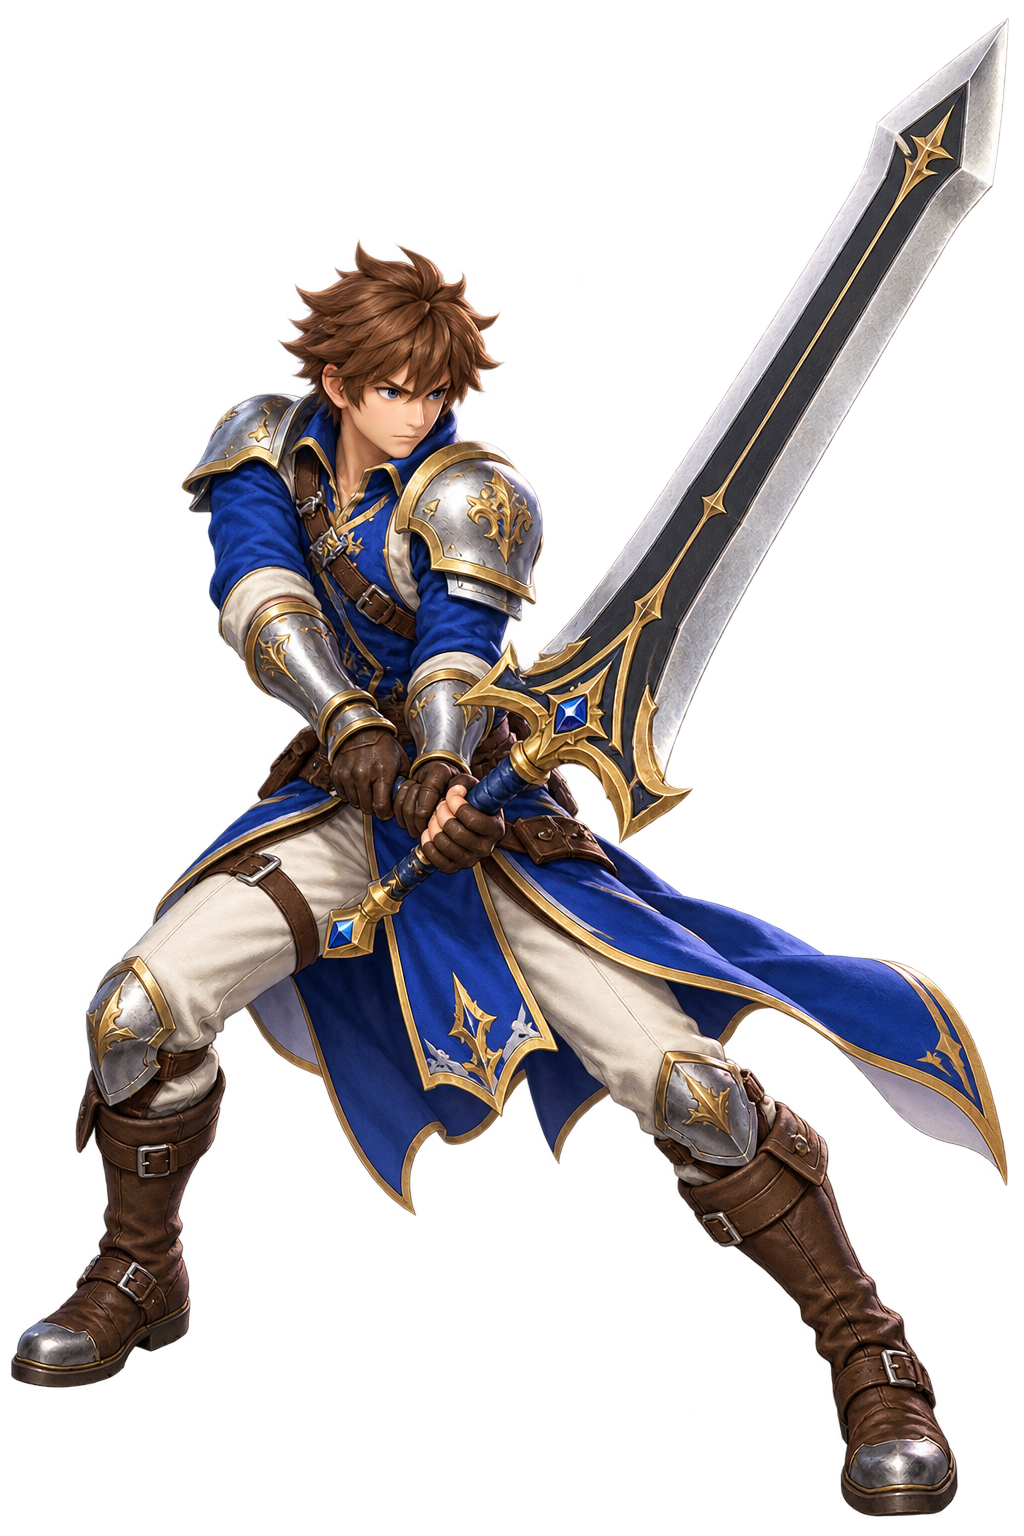
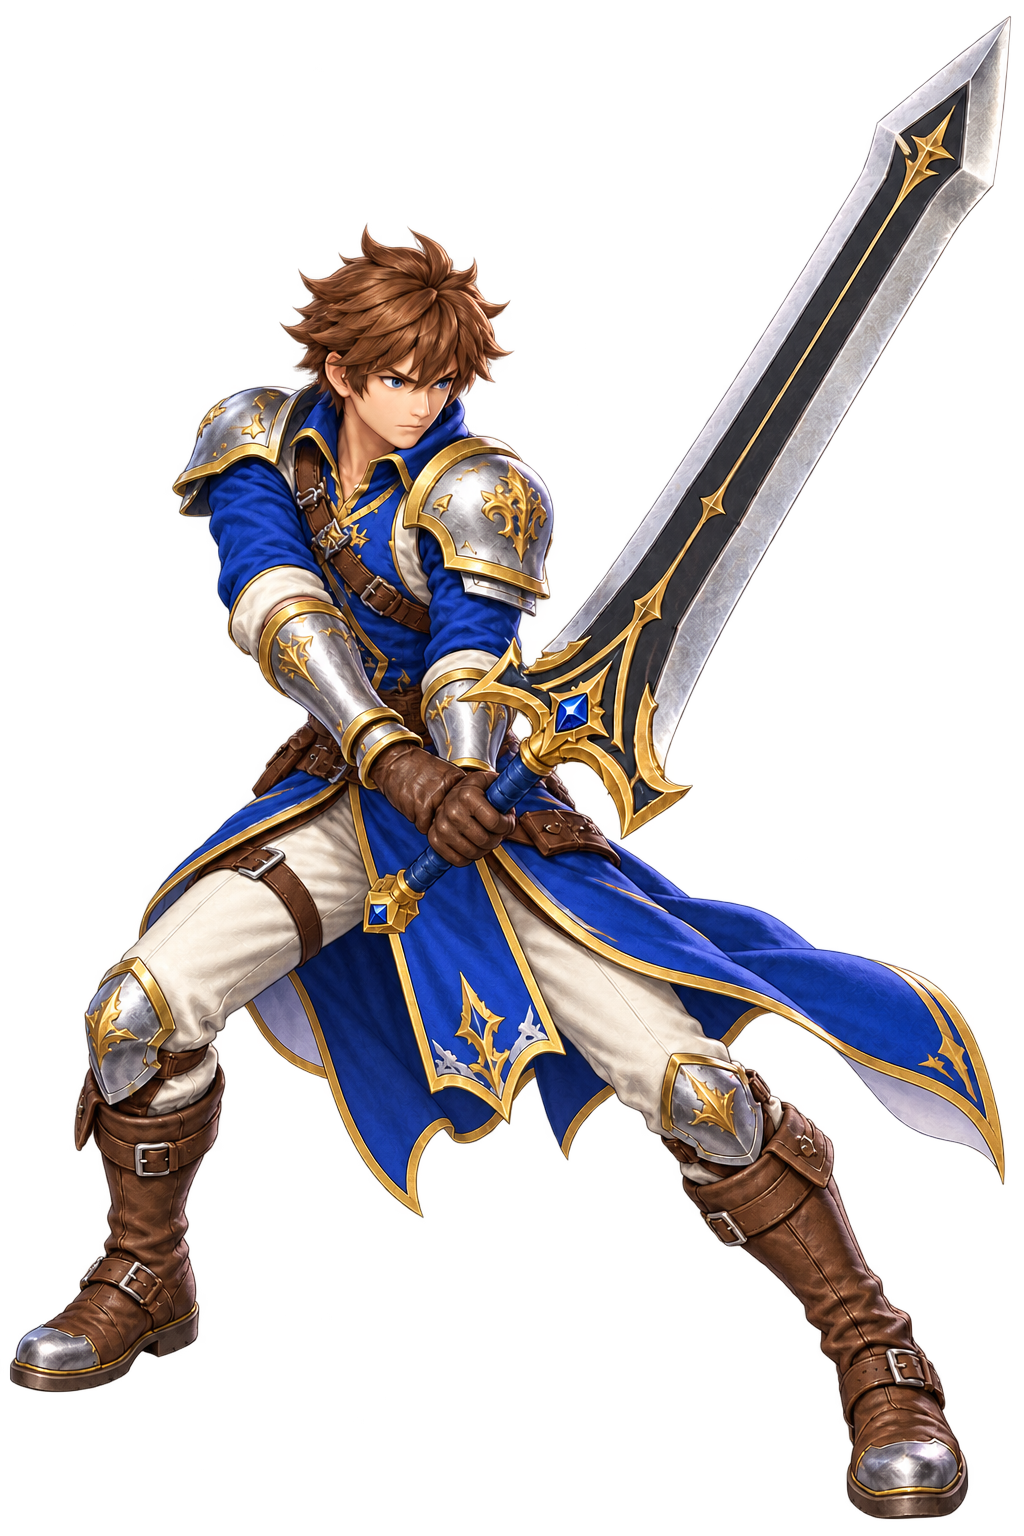
Refine greatsword ready and charge poses

diff --git a/src/config/weapons.js b/src/config/weapons.js
@@ -27,6 +27,7 @@ const weaponDefinitions = {
 };
 const unarmedWeapon = { id: "unarmed", name: "素手", damage: 0.1 };
 const playerAssetVersion = "branch-intro-v1";
+const greatswordPoseVersion = "greatsword-poses-v2";
 const playerWeaponAssets = {
   branch: {
     idle: `src/assets/images/player/branch/idle/frame_01.png?v=${playerAssetVersion}`,
@@ -44,10 +45,10 @@ const playerWeaponAssets = {
     strike: `src/assets/images/player/sword/attack/frame_02.png?v=${playerAssetVersion}`,
   },
   greatsword: {
-    idle: `src/assets/images/player/greatsword/charge/frame_01.png?v=${playerAssetVersion}`,
+    idle: `src/assets/images/player/greatsword/charge/frame_01.png?v=${greatswordPoseVersion}`,
     charge: [
-      `src/assets/images/player/greatsword/charge/frame_01.png?v=${playerAssetVersion}`,
-      `src/assets/images/player/greatsword/idle/frame_01.png?v=${playerAssetVersion}`,
+      `src/assets/images/player/greatsword/charge/frame_01.png?v=${greatswordPoseVersion}`,
+      `src/assets/images/player/greatsword/idle/frame_01.png?v=${greatswordPoseVersion}`,
       `src/assets/images/player/greatsword/attack/frame_01.png?v=${playerAssetVersion}`,
     ],
     windup: `src/assets/images/player/greatsword/attack/frame_01.png?v=${playerAssetVersion}`,

diff --git a/index.html b/index.html
@@ -401,7 +401,7 @@
 
     <script src="src/data/words.js?v=kana-readings-v2"></script>
     <script src="src/data/labels.js?v=folder-layout-v2"></script>
-    <script src="src/config/weapons.js?v=treasure-reward-v1"></script>
+    <script src="src/config/weapons.js?v=greatsword-poses-v2"></script>
     <script src="src/config/stages.js?v=stage-two-name-v1"></script>
     <script src="src/config/enemyAnimations.js?v=crab-king-v1"></script>
     <script src="src/config/playerProgression.js?v=player-progression-v1"></script>
